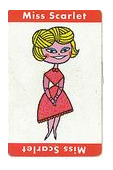
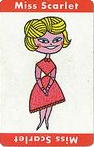
Fixed textures

diff --git a/source/cluedo/src/gui/GameWindow.java b/source/cluedo/src/gui/GameWindow.java
@@ -1,6 +1,7 @@
 package gui;
 
 import game.CluedoGame;
+import game.cards.Card;
 import gui.Update.DiceUpdate;
 import gui.Update.HandUpdate;
 import gui.request.PlayerCountRequest;
@@ -21,8 +22,8 @@ import java.util.*;
 public class GameWindow extends JFrame implements Observer, ActionListener {
             public static final String WINDOW_TITLE = "Cluedo";
             public static final int
-                    WINDOW_INITIAL_WIDTH = 800,
-                    WINDOW_INITIAL_HEIGHT = 800,
+                    WINDOW_MIN_WIDTH = 800,
+                    WINDOW_MIN_HEIGHT = 800,
 
                     DICE_BOX_HEIGHT = 100,
                     DICE_SIZE = 60,
@@ -30,9 +31,16 @@ public class GameWindow extends JFrame implements Observer, ActionListener {
                     DICE_PADDING_TOP = 15,
 
                     SIDEBAR_WIDTH = 200,
-                    BOTTOMBAR_HEIGHT = 150,
+                    BOTTOMBAR_HEIGHT = 200,
+                    BORDER_WIDTH = 7,
 
-                    INFO_BOX_WIDTH = 150;
+                    INFO_BOX_WIDTH = 150,
+
+                    CARD_WIDTH = 100,
+                    CARD_HEIGHT = 170,
+                    CARD_GAP = 10,
+                    CARD_PADDING_TOP = 10;
+
 
             public static final Map<String, String> IMAGE_FILES = new HashMap<String, String>() {{
                 put("felt", "images/texture/felt.jpg");
@@ -55,7 +63,7 @@ public class GameWindow extends JFrame implements Observer, ActionListener {
                 put("die6", "images/dice/die6.png");
 
                 put("Miss Scarlett", "images/cards/Miss_scarlet.png");
-                put("Mr Green", "images/cards/Mr_green");
+                put("Mr Green", "images/cards/Mr_green.png");
                 put("Colonel Mustard", "images/cards/Colonel_mustard.png");
                 put("Professor Plum", "images/cards/Prof_plum.png");
                 put("Mrs. Peacock", "images/cards/Mrs_peacock.png");
@@ -69,11 +77,11 @@ public class GameWindow extends JFrame implements Observer, ActionListener {
                 put("Library", "images/cards/Library.png");
                 put("Hall", "images/cards/Hall.png");
                 put("Lounge", "images/cards/Lounge.png");
-                put("Study", "images/cards/Study");
+                put("Study", "images/cards/Study.png");
 
                 put("Candlestick", "images/cards/Candlestick.png");
                 put("Knife", "images/cards/Knife.png");
-                put("Lead Pipe", "images/cards/Pipe,png");
+                put("Lead Pipe", "images/cards/Pipe.png");
                 put("Revolver", "images/cards/Revolver.png");
                 put("Rope", "images/cards/Rope.png");
                 put("Wrench", "images/cards/Wrench.png");
@@ -82,12 +90,13 @@ public class GameWindow extends JFrame implements Observer, ActionListener {
 
     private CluedoGame game = null;
 
-    private JLabel boardBox, messageBox, infoBox;
-    private ImagePanel cardBox, diceBox, die1, die2, playerBox;
+    private JLabel messageBox;
+    private ImagePanel cardBox, diceBox, die1, die2, playerBox, boardBox, infoBox;
+    private JScrollPane cardScollBox;
 
     public GameWindow() {
         super(WINDOW_TITLE);
-        setSize(WINDOW_INITIAL_WIDTH, WINDOW_INITIAL_HEIGHT);
+        setMinimumSize(new Dimension(WINDOW_MIN_WIDTH, WINDOW_MIN_HEIGHT));
         setDefaultCloseOperation(JFrame.DISPOSE_ON_CLOSE);
 
         loadImages();
@@ -125,9 +134,6 @@ public class GameWindow extends JFrame implements Observer, ActionListener {
         buildPlayerBox(container);
         buildInfoBox(container);
 
-        container.setOpaque(true);
-        container.setBackground(Color.black);
-
         add(container);
     }
 
@@ -148,10 +154,8 @@ public class GameWindow extends JFrame implements Observer, ActionListener {
     }
 
     private void buildInfoBox(JPanel container) {
-        infoBox = new JLabel();
+        infoBox = new ImagePanel(images.get("darkFelt"), images.get("borderTL"), images.get("borderTR"), images.get("borderBL"), images.get("borderBR"), images.get("borderTop"), images.get("borderBottom"), images.get("borderLeft"), images.get("borderRight"), BORDER_WIDTH);;
         infoBox.setPreferredSize(new Dimension(INFO_BOX_WIDTH, BOTTOMBAR_HEIGHT));
-        infoBox.setOpaque(true);
-        infoBox.setBackground(Color.magenta);
 
         GridBagConstraints c = new GridBagConstraints();
         c.fill = GridBagConstraints.NONE;
@@ -162,7 +166,7 @@ public class GameWindow extends JFrame implements Observer, ActionListener {
     }
 
     private void buildPlayerBox(JPanel container) {
-        playerBox = new ImagePanel(images.get("darkFelt"), images.get("borderTL"), images.get("borderTR"), images.get("borderBL"), images.get("borderBR"), images.get("borderTop"), images.get("borderBottom"), images.get("borderLeft"), images.get("borderRight"));
+        playerBox = new ImagePanel(images.get("darkFelt"), images.get("borderTL"), images.get("borderTR"), images.get("borderBL"), images.get("borderBR"), images.get("borderTop"), images.get("borderBottom"), images.get("borderLeft"), images.get("borderRight"), BORDER_WIDTH);
         playerBox.setPreferredSize(new Dimension(SIDEBAR_WIDTH, 0));
 
         GridBagConstraints c = new GridBagConstraints();
@@ -175,7 +179,7 @@ public class GameWindow extends JFrame implements Observer, ActionListener {
     }
 
     private void buildDiceBox(JPanel container) {
-        diceBox = new ImagePanel(images.get("felt"), images.get("borderTL"), images.get("borderTR"), images.get("borderBL"), images.get("borderBR"), images.get("borderTop"), images.get("borderBottom"), images.get("borderLeft"), images.get("borderRight"));
+        diceBox = new ImagePanel(images.get("felt"), images.get("borderTL"), images.get("borderTR"), images.get("borderBL"), images.get("borderBR"), images.get("borderTop"), images.get("borderBottom"), images.get("borderLeft"), images.get("borderRight"), BORDER_WIDTH);
         diceBox.setPreferredSize(new Dimension(SIDEBAR_WIDTH, DICE_BOX_HEIGHT));
 
         FlowLayout layout = new FlowLayout();
@@ -183,9 +187,9 @@ public class GameWindow extends JFrame implements Observer, ActionListener {
         diceBox.setLayout(layout);
         diceBox.setBorder(new EmptyBorder(DICE_PADDING_TOP, 0, 0, 0));
 
-        die1 = new ImagePanel(images.get("die1"), false);
+        die1 = new ImagePanel(images.get("die1"), false, BORDER_WIDTH);
         die1.setPreferredSize(new Dimension(DICE_SIZE, DICE_SIZE));
-        die2 = new ImagePanel(images.get("die1"), false);
+        die2 = new ImagePanel(images.get("die1"), false, BORDER_WIDTH);
         die2.setPreferredSize(new Dimension(DICE_SIZE, DICE_SIZE));
 
         diceBox.add(die1);
@@ -200,8 +204,18 @@ public class GameWindow extends JFrame implements Observer, ActionListener {
     }
 
     private void buildCardBox(JPanel container) {
-        cardBox = new ImagePanel(images.get("felt"), images.get("borderTL"), images.get("borderTR"), images.get("borderBL"), images.get("borderBR"), images.get("borderTop"), images.get("borderBottom"), images.get("borderLeft"), images.get("borderRight"));
-        cardBox.setPreferredSize(new Dimension(0, BOTTOMBAR_HEIGHT));
+        cardBox = new ImagePanel(images.get("felt"), images.get("borderTL"), images.get("borderTR"), images.get("borderBL"), images.get("borderBR"), images.get("borderTop"), images.get("borderBottom"), images.get("borderLeft"), images.get("borderRight"), BORDER_WIDTH);
+
+
+        FlowLayout layout = new FlowLayout();
+        layout.setAlignment(FlowLayout.LEFT);
+        layout.setHgap(CARD_GAP);
+        cardBox.setBorder(new EmptyBorder(CARD_PADDING_TOP, CARD_GAP, 0, 0));
+        cardBox.setLayout(layout);
+
+        cardScollBox = new JScrollPane(cardBox, JScrollPane.VERTICAL_SCROLLBAR_NEVER, JScrollPane.HORIZONTAL_SCROLLBAR_AS_NEEDED);
+        cardScollBox.setPreferredSize(new Dimension(0, BOTTOMBAR_HEIGHT));
+        cardScollBox.setBorder(new EmptyBorder(0, 0, 0, 0));
 
         GridBagConstraints c = new GridBagConstraints();
         c.fill = GridBagConstraints.HORIZONTAL;
@@ -212,19 +226,20 @@ public class GameWindow extends JFrame implements Observer, ActionListener {
 
         c.anchor = GridBagConstraints.WEST;
 
-        container.add(cardBox, c);
+        container.add(cardScollBox, c);
 
     }
 
     private void buildBoardBox(JPanel container) {
-        JPanel boardContainer = new JPanel();
+        ImagePanel boardContainer = new ImagePanel(images.get("darkFelt"), images.get("borderTL"), images.get("borderTR"), images.get("borderBL"), images.get("borderBR"), images.get("borderTop"), images.get("borderBottom"), images.get("borderLeft"), images.get("borderRight"), BORDER_WIDTH);
         boardContainer.setLayout(new GridBagLayout());
+        boardContainer.setBorder(new EmptyBorder(BORDER_WIDTH, BORDER_WIDTH, BORDER_WIDTH, BORDER_WIDTH));
 
         GridBagConstraints c = new GridBagConstraints();
-        messageBox = new JLabel("Hello, here is a message!");
+        messageBox = new JLabel("Hello, here is a message!", SwingConstants.CENTER);
         messageBox.setMinimumSize(new Dimension(0, 20));
-        messageBox.setOpaque(true);
-        messageBox.setBackground(Color.cyan);
+        messageBox.setOpaque(false);
+        messageBox.setForeground(Color.white);
 
         c.fill = GridBagConstraints.HORIZONTAL;
         c.weightx = 1;
@@ -232,10 +247,7 @@ public class GameWindow extends JFrame implements Observer, ActionListener {
         c.gridy = 1;
         boardContainer.add(messageBox, c);
 
-        boardBox = new JLabel();
-        boardBox.setOpaque(true);
-        setMinimumSize(new Dimension(600, 600));
-        boardBox.setBackground(Color.green);
+        boardBox = new ImagePanel(images.get("darkFelt"), true, BORDER_WIDTH);
 
         c.fill = GridBagConstraints.BOTH;
         c.weightx = 1;
@@ -313,7 +325,22 @@ public class GameWindow extends JFrame implements Observer, ActionListener {
     }
 
     private void updateHand(HandUpdate update) {
+        cardBox.removeAll();
+        cardBox.repaint();
 
+        int delay = 100;
+        for(Card c : update.hand) {
+            ImagePanel cardPanel = new ImagePanel(images.get(c.getName()), false, BORDER_WIDTH);
+            cardPanel.setPreferredSize(new Dimension(CARD_WIDTH, CARD_HEIGHT));
+
+            Timer t = new Timer(delay, e -> {
+                cardBox.add(cardPanel);
+                cardBox.revalidate();
+            });
+            t.setRepeats(false);
+            t.start();
+            delay += 100;
+        }
     }
 
     @Override

diff --git a/source/cluedo/src/game/CluedoGame.java b/source/cluedo/src/game/CluedoGame.java
@@ -41,6 +41,8 @@ public class CluedoGame extends Observable {
 	private Board board;
 	private Suggestion solutionCards;
 
+	// I MOVED YOUR IMAGE FILE DEFINITIONS INTO GAMEWINDOW. AFTER SOME THOUGHT IT SEEMED LIKE A BETTER SPOT. SORRY!
+
 	// Characters used in card generation
 	private final game.cards.Character[] characters = { 
 			new game.cards.Character("Miss Scarlett", 1),
@@ -52,27 +54,27 @@ public class CluedoGame extends Observable {
 
 	// Rooms used in card generation
 	private final game.cards.Room[] rooms = {
-			new Room("Kitchen", 'K', "images/cards/Kitchen.png"),
-	        new Room("Ball Room", 'B', "images/cards/Ballroom.png"),
-	        new Room("Conservatory", 'C', "images/cards/Conservatory.png"),
-	        new Room("Billiard Room", 'P', "images/cards/Billard_room.png"),
-	        new Room("Dining Room", 'D', "images/cards/Dining_room.png"),
-	        new Room("Library", 'L', "images/cards/Library.png"),
-	        new Room("Hall", 'R', "images/cards/Hall.png"),
-	        new Room("Lounge", 'T', "images/cards/Lounge.png"),
-	        new Room("Study", 'S', "images/cards/Study") };
+			new Room("Kitchen", 'K'),
+	        new Room("Ball Room", 'B'),
+	        new Room("Conservatory", 'C'),
+	        new Room("Billiard Room", 'P'),
+	        new Room("Dining Room", 'D'),
+	        new Room("Library", 'L'),
+	        new Room("Hall", 'R'),
+	        new Room("Lounge", 'T'),
+	        new Room("Study", 'S')};
 
 	// Weapons used in card generation
 	private final game.cards.Weapon[] weapons = { 
-			new game.cards.Weapon("Candlestick", "images/cards/Candlestick.png"),
-			new game.cards.Weapon("Knife", "images/cards/Knife.png"),
-			new game.cards.Weapon("Lead Pipe", "images/cards/Pipe,png"),
-			new game.cards.Weapon("Revolver", "images/cards/Revolver.png"),
-			new game.cards.Weapon("Rope", "images/cards/Rope.png"),
-			new game.cards.Weapon("Wrench", "images/cards/Wrench.png") };
+			new game.cards.Weapon("Candlestick"),
+			new game.cards.Weapon("Knife"),
+			new game.cards.Weapon("Lead Pipe"),
+			new game.cards.Weapon("Revolver"),
+			new game.cards.Weapon("Rope"),
+			new game.cards.Weapon("Wrench") };
 
 	// Separate hallway because there are no hallway cards, but still needed for comparisons
-	private final game.cards.Room hallway = new game.cards.Room("Hallway", 'H', "");
+	private final game.cards.Room hallway = new game.cards.Room("Hallway", 'H');
 
 	private List<Player> players = new ArrayList<>();
 
@@ -88,12 +90,16 @@ public class CluedoGame extends Observable {
 	}
 
     public void startGame() {
-	    Turn t = new Turn(null);
+
+        initGame();
+        initCards();
+
+        Turn t = new Turn(null);
         Pair<Integer, Integer> dice = t.rollDice();
         System.out.println(t.getDiceRoll());
         updateGui(new DiceUpdate(dice.getKey(), dice.getValue()));
-        //initGame();
-        //initCards();
+        updateGui(new HandUpdate(players.get(1).getHand()));
+
         //runGame();
     }
 

diff --git a/source/cluedo/src/gui/ImagePanel.java b/source/cluedo/src/gui/ImagePanel.java
@@ -10,15 +10,16 @@ public class ImagePanel extends JPanel {
     private Image backtroundImage;
     private Image borderTL, borderTR, borderBL, borderBR, borderTop, borderBottom, borderLeft, borderRight;
     private boolean drawBorder, tile;
-    private int borderSize = 10;
+    private int borderSize;
 
-    public ImagePanel(Image backgroundImage, boolean tile) {
+    public ImagePanel(Image backgroundImage, boolean tile, int borderSize) {
         this.backtroundImage = backgroundImage;
         drawBorder = false;
         this.tile = tile;
+        this.borderSize = borderSize;
     }
 
-    public ImagePanel(Image backgroundImage, Image borderTL, Image borderTR, Image borderBL, Image borderBR, Image borderTop, Image borderBottom, Image borderLeft, Image borderRight) {
+    public ImagePanel(Image backgroundImage, Image borderTL, Image borderTR, Image borderBL, Image borderBR, Image borderTop, Image borderBottom, Image borderLeft, Image borderRight, int borderSize) {
         this.backtroundImage = backgroundImage;
         this.borderTL = borderTL;
         this.borderTR = borderTR;
@@ -30,6 +31,7 @@ public class ImagePanel extends JPanel {
         this.borderRight = borderRight;
         drawBorder = true;
         tile = true;
+        this.borderSize = borderSize;
     }
 
     public void setBacktroundImage(Image image) {

diff --git a/source/cluedo/src/game/board/Board.java b/source/cluedo/src/game/board/Board.java
@@ -36,16 +36,16 @@ public class Board {
 
     // Key for board characters to room names
     private static final Map<java.lang.Character, Room> rooms = new HashMap<java.lang.Character, Room>() {{
-        put('k', new Room("Kitchen", 'K', "Kitchen.png"));
-        put('b', new Room("Ball Room", 'B', "Ballroom.png"));
-        put('c', new Room("Conservatory", 'C', "Conservatory.png"));
-        put('p', new Room("Billiard Room", 'P', "Billard_room.png"));
-        put('h', new Room("Hallway", 'H', ""));
-        put('d', new Room("Dining Room", 'D', "Dining_room.png"));
-        put('l', new Room("Library", 'L', "Library.png"));
-        put('r', new Room("Hall", 'R', "Hall.png"));
-        put('t', new Room("Lounge", 'T', "Lounge.png"));
-        put('s', new Room("Study", 'S', "Study"));
+        put('k', new Room("Kitchen", 'K'));
+        put('b', new Room("Ball Room", 'B'));
+        put('c', new Room("Conservatory", 'C'));
+        put('p', new Room("Billiard Room", 'P'));
+        put('h', new Room("Hallway", 'H'));
+        put('d', new Room("Dining Room", 'D'));
+        put('l', new Room("Library", 'L'));
+        put('r', new Room("Hall", 'R'));
+        put('t', new Room("Lounge", 'T'));
+        put('s', new Room("Study", 'S'));
     }};
 
     // Board co-ordinates of each character starting position
